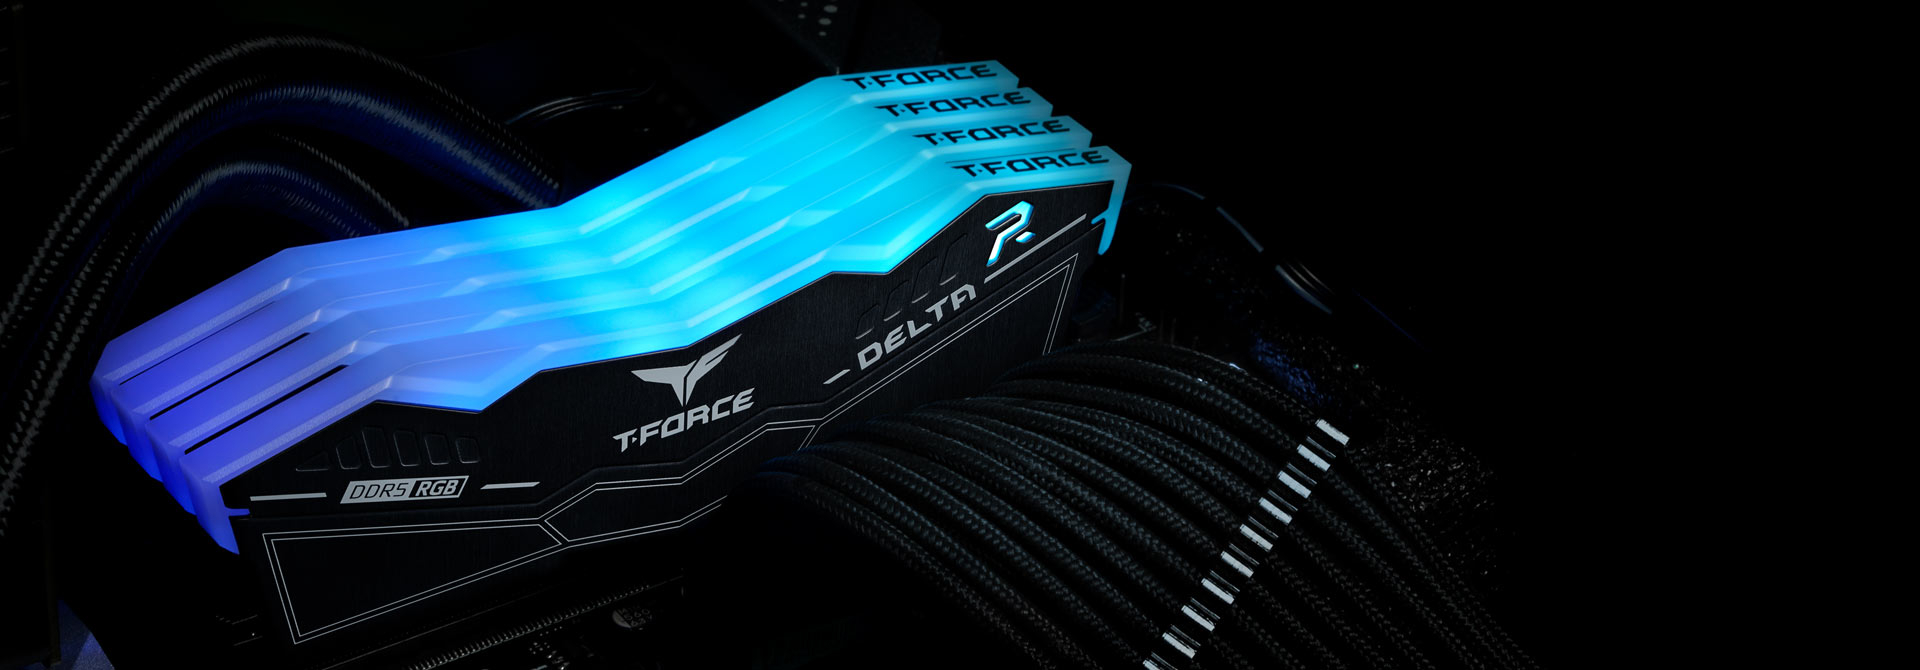
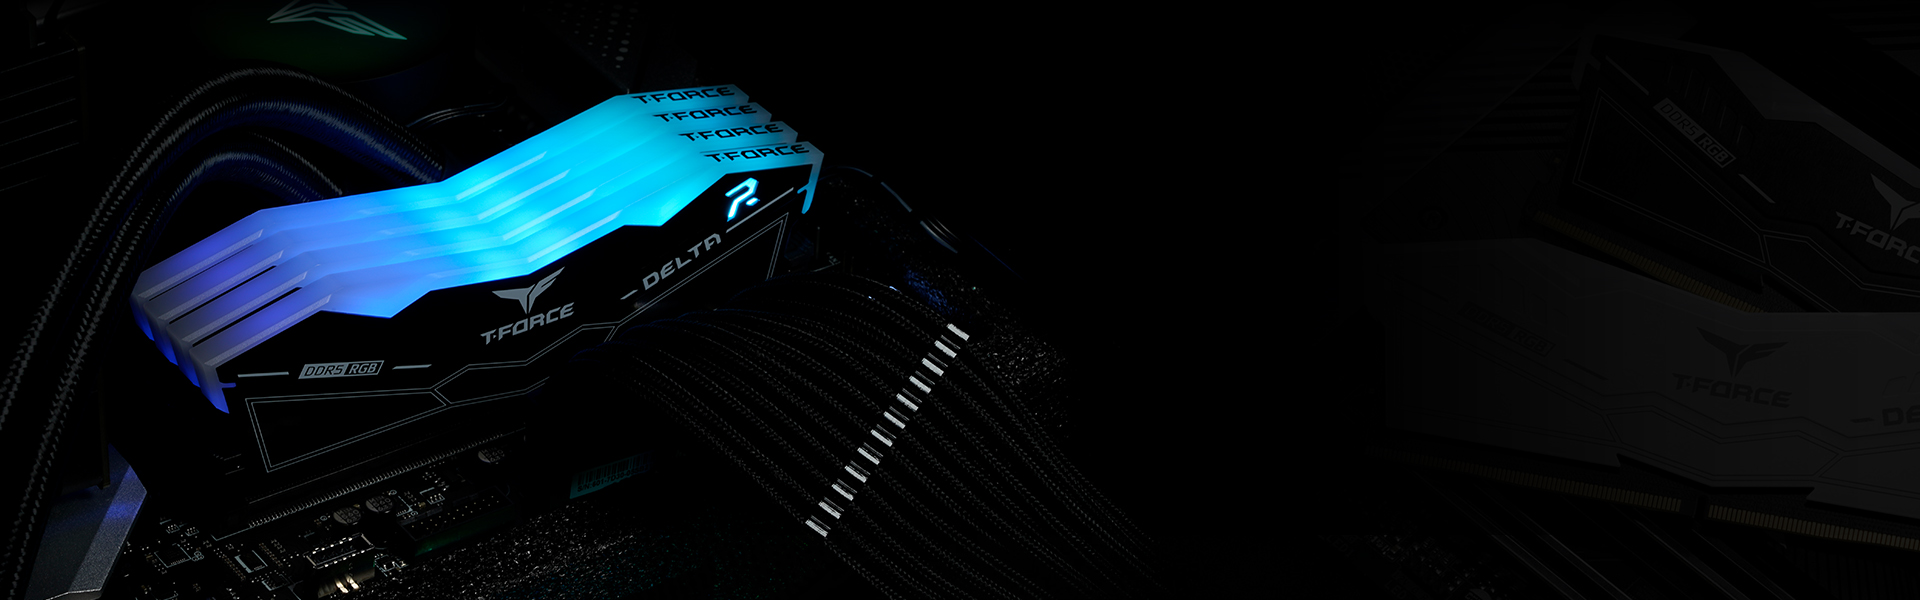
0128

diff --git a/index.html b/index.html
@@ -62,7 +62,7 @@
 
 	<!-- Custom css -->
 	<link rel="stylesheet" type="text/css" href="css/HF.css?20220117_02">
-	<link rel="stylesheet" type="text/css" href="css/stylesheet.css?20220125_01">
+	<link rel="stylesheet" type="text/css" href="css/stylesheet.css?220128_01">
 
 
 	<!-- Google Tag Manager -->
@@ -132,15 +132,15 @@
 	<header class="Kv_Box d-lg-flex position-relative">
 		<div class="container d-lg-flex align-items-lg-start content-space-t-3 content-space-lg-0 min-vh-lg-100">
 			<!-- SVG Shape -->
-			<div class="col-lg-7 col-xl-6 d-none d-lg-block position-absolute Item_ImgBox" style="margin-top: 6.75rem;">
+			<div class="col-md-12 col-lg-9 col-xl-6 d-lg-block position-absolute Item_ImgBox" style="margin-top: 6.75rem;">
 				<div class="position-relative">
 					<div class="Item_Img_01">
 						<img class="img-fluid" src="images/kv_left.png" alt="">
 					</div>
 					<div class="position-absolute Item_Img_02 hvr-bounce-in">
 						<a class="d-block"
-							href="https://www.pccasegear.com/products/56239/team-t-force-delta-rgb-16gb-2x8gb-6200mhz-cl38-ddr5"><img
-								class="img-fluid" src="images/kv_left_01.png" alt=""></a>
+							href="https://www.pccasegear.com/products/56239/team-t-force-delta-rgb-16gb-2x8gb-6200mhz-cl38-ddr5"
+							target="_blank"><img class="img-fluid" src="images/kv_left_01.png" alt=""></a>
 					</div>
 				</div>
 			</div>
@@ -150,11 +150,18 @@
 			<!-- Heading -->
 			<div class="container">
 				<div class="row">
-					<div class="col-lg-7 offset-lg-6 Kv_Box_Text">
+					<div class="col-md-12 col-lg-9 offset-lg-3 col-xl-7 offset-xl-5 col-xxl-7 offset-xxl-5 Kv_Box_Text">
 						<div class="mb-5 mb-lg-0 text-center text-lg-start">
-							<h1 class="display-1 mb-3">THE NEW LEVEL OF</h1>
-							<h1 class="display-1 mb-3">PC PERFORMANCE</h1>
-							<p class="lead fs-3 mb-5">- Experience the power of DDR5 -</p>
+							<div class="pc">
+								<h1 class="display-1 mb-3">THE NEW LEVEL OF</h1>
+								<h1 class="display-1 mb-3">PC PERFORMANCE</h1>
+							</div>
+							<div class=" mobile">
+								<h1 class="display-2 mb-3">THE NEW LEVEL OF PC PERFORMANCE</h1>
+							</div>
+							
+							<p class="lead fs-3 mb-sm-5 mb-lg-5 pc">- Experience the power of DDR5 -</p>
+							<p class="lead fs-3 mb-sm-5 mb-lg-5 mobile">Experience the power of DDR5</p>
 							<a href="https://www.teamgroupinc.com/en/product/delta-rgb-ddr5" target="_blank"
 								class="btn btn-solid-pur hvr-bounce-in">LEARN MORE<i class="fa fa-angle-right ml-2"></i></a>
 						</div>
@@ -171,11 +178,13 @@
 		<div class="container">
 			<div class="row">
 				<div class="col-12">
-					<h1 class="ContBox_Title_01 display-4 wow animate__ animate__fadeInLeft animated"
-						style="visibility: visible; animation-name: fadeInLeft;">T-FORCE Delta RGB DDR5 Gaming Memory</h1>
-						<div class="">
+					<h1 class="ContBox_Title_01 display-4 text-center">T-FORCE Delta RGB DDR5 Gaming Memory</h1>
+					<div class="col-12 wow animate__animated animate__fadeInUp">
+						<picture class="d-block">
+							<source media="(max-width: 751px)" srcset="images/section01_item-m.png" />
 							<img class="img-fluid" src="images/section01_item.png" alt="">
-						</div>
+						</picture>
+					</div>
 				</div>
 			</div>
 		</div>
@@ -184,16 +193,33 @@
 	<section class="ContBox_02">
 		<div class="container">
 			<div class="row">
-				<div class="col-md-12 col-lg-6 col-xl-4 offset-xl-2 wow animate__ animate__backInUp animated" style="visibility: visible; animation-name: backInUp;">
-					<div class="mx-md-auto ProductImgBox">
-						<!-- <img class="img-fluid Product_Img" src="images/section_bg_02.jpg" alt="alternative"> -->
+				<div class="col-12 col-md-12 col-lg-6 col-xl-7">
+					<!-- <img class="img-fluid Product_Img" src="images/section02_item.png" alt="alternative"> -->
+				</div>
+				<div class="col-12 col-md-12 col-lg-6 col-xl-5 align-self-center align-items-center wow animate__animated animate__fadeInLeft">
+					<div class="mx-md-auto BigTitle02">
+						<h1 class="fw-bolder display-5 mb-4">T-FORCE Delta RGB DDR5 Gaming Memory</h1>
+						<a class="btn btn-solid-pur hvr-bounce-in" target="_blank"
+							href="https://www.pccasegear.com/products/56239/team-t-force-delta-rgb-16gb-2x8gb-6200mhz-cl38-ddr5">BUY
+							NOW</a>
 					</div>
 				</div>
-				<div class="col-md-12 col-lg-6 col-xl-6  d-flex align-items-center align-self-center wow animate__ animate__backInUp animated" style="visibility: visible; animation-name: backInUp;">
-					<div class="mx-md-auto">
-						<h1 class="fw-bolder display-5">T-FORCE Delta RGB DDR5 Gaming Memory</h1>
-						<a class="btn btn-lg btn-solid-reg" target="_blank" href="https://www.pccasegear.com/products/56239/team-t-force-delta-rgb-16gb-2x8gb-6200mhz-cl38-ddr5">BUY NOW</a>
+			</div>
+		</div>
+	</section>
+
+	<section class="ContBox_03">
+		<div class="container">
+			<div class="row">
+				<div class="col-12 col-md-12 col-lg-6 col-xl-7 align-self-center align-items-center wow animate__animated animate__fadeInRight">
+					<div class="mx-md-auto BigTitle">
+						<h1 class="fw-bolder display-5 mb-4">What's The Difference Between DDR4 and DDR5 Memory?</h1>
+						<a class="btn btn-solid-pur hvr-bounce-in" target="_blank"
+							href="https://www.teamgroupinc.com/en/blogs/d5andd4">READ ARTICLE</a>
 					</div>
+				</div>
+				<div class="col-12 col-md-12 col-lg-6 col-xl-5">
+					<!-- <img class="img-fluid Product_Img" src="images/section02_item.png" alt="alternative"> -->
 				</div>
 			</div>
 		</div>

diff --git a/css/stylesheet.css b/css/stylesheet.css
@@ -1,4 +1,5 @@
 @import url('https://fonts.googleapis.com/css2?family=Roboto:ital,wght@0,400;0,900;1,500&display=swap');
+
 * {
   margin: 0px;
   padding: 0px;
@@ -27,7 +28,6 @@ body {
 .pc {
   display: block;
 }
-
 .mobile {
   display: none;
 }
@@ -38,13 +38,13 @@ body {
 
 .Kv_Box {
   width: 100%;
-  height: 100vh;
+  height: 85vh;
   overflow: hidden;
   background-image: url(../images/kv_bg.jpg);
   background-repeat: no-repeat;
   background-position: bottom;
   background-size: cover;
-} 
+}
 
 .Kv_Box_Text {
   margin-top: 10rem;
@@ -98,7 +98,7 @@ body {
 
 .btn-solid-pur:hover {
   color: #fff;
-} 
+}
 
 .Item_ImgBox {
   left: 0;
@@ -112,25 +112,20 @@ body {
   transition: all 0.5s;
 }
 
-.Item_Img_02:hover {
-  /* left: 390px;
-  top: 600px; */
-}
-
 .Item_Text {
   margin-left: 350px;
   margin-top: 170px;
 }
 
 .ContBox_01 {
-  background-image:url(../images/section_bg.jpg);
+  background-image: url(../images/section_bg.jpg);
   position: relative;
   padding-top: 5rem;
   padding-bottom: 5rem;
 }
 
 .ContBox_Title_01 {
-  font-family: "Merriweather","Open Sans","sans-serif";
+  font-family: 'Roboto', sans-serif;
   font-weight: bold;
   color: #FCBE36;
   margin-bottom: 28px;
@@ -144,35 +139,121 @@ body {
 }
 
 .ContBox_02 {
-  background-image:url(../images/section_bg_02.jpg);
+  background-image: url(../images/section_bg_02.jpg);
+  background-position: top;
   background-color: #000;
   position: relative;
-  padding-top: 5rem;
+  padding-top: 10rem;
+  padding-bottom: 10rem;
+  background-repeat: no-repeat;
+}
+
+.ContBox_03 {
+  background-image: url(../images/section_bg_03.jpg);
+  background-position: top;
+  background-color: #000;
+  position: relative;
+  padding-top: 10rem;
   padding-bottom: 5rem;
   background-repeat: no-repeat;
 }
 
-.ProductImgBox {
-  height: 26vw;
-}
-
-
-
-
-
 @media (max-width: 1441px) {
-
+  .Kv_Box{
+    height: 100vh;
+  }
 }
 
 @media (max-width: 1025px) {
+  .Kv_Box_Text{
+    margin-top: 32rem;
+  }
+  .Item_Img_01 {
+    margin-top: -90px;
+  }
+  .Item_Img_02 {
+    left: 230px;
+    top: 470px;
+  }
+  .ContBox_02 {
+    background-position: 35% 10%;
+  }
+  .ContBox_03 {
+    background-position: 90% bottom;
+  }
+}
+
+@media (max-width: 750px) {
+  .pc {
+    display: none;
+  }
+  .mobile {
+    display: block;
+  }
+  .ContBox_01 {
+    padding-top: 1.3rem;
+    padding-bottom: 1.3rem;
+  }
+  .ContBox_Title_01 {
+    padding-bottom: 0;
+  }
+  .ContBox_02 {
+    background-position: 40% 100%;
+  }
 
 }
 
-@media (max-width: 769px) {
-
+@media (max-width: 426px) {
+  .Item_Img_02 {
+      left: 240px;
+      top: 200px;
+  }
+  .Item_Img_01 {
+    margin-top: 2.5vw;
+  }
+  .Kv_Box_Text {
+    margin-top: 85vw;
+  }
 }
 
-
-@media (max-width: 427px) {
-
+@media (max-width: 375px) {
+  .Kv_Box {
+    background-image: url(../images/kv_bg-m.jpg);
+    background-position: bottom;
+  }
+  .ContBox_02 {
+    padding-top: 15vw;
+    background-image: url(../images/section_bg_02-sm.jpg);
+    background-position: bottom;
+  }
+  .ContBox_03 {
+    padding-top: 21vw;
+    padding-bottom: 5rem;
+    background-image: url(../images/section_bg_03-sm.jpg);
+    background-position: bottom;
+  }
+  .Item_Img_01 {
+    margin-top: 2vw;
+  }
+  .Item_Img_02 {
+    left: 60vw;
+    top: 50vw;
+  }
+  .Kv_Box_Text {
+    margin-top: 80vw;
+  }
+  .Kv_Box_Text h1:after {
+    right: 0;
+  }
+  .BigTitle {
+    padding-bottom: 90vw;
+  }
+  .BigTitle02 {
+    padding-bottom: 30vw;
+  }
+  .btn-solid-pur {
+    padding: 1.5rem 2rem 1.5rem 2rem;
+    border-radius: 50px;
+    font-size: 1rem;
+  }
 }
